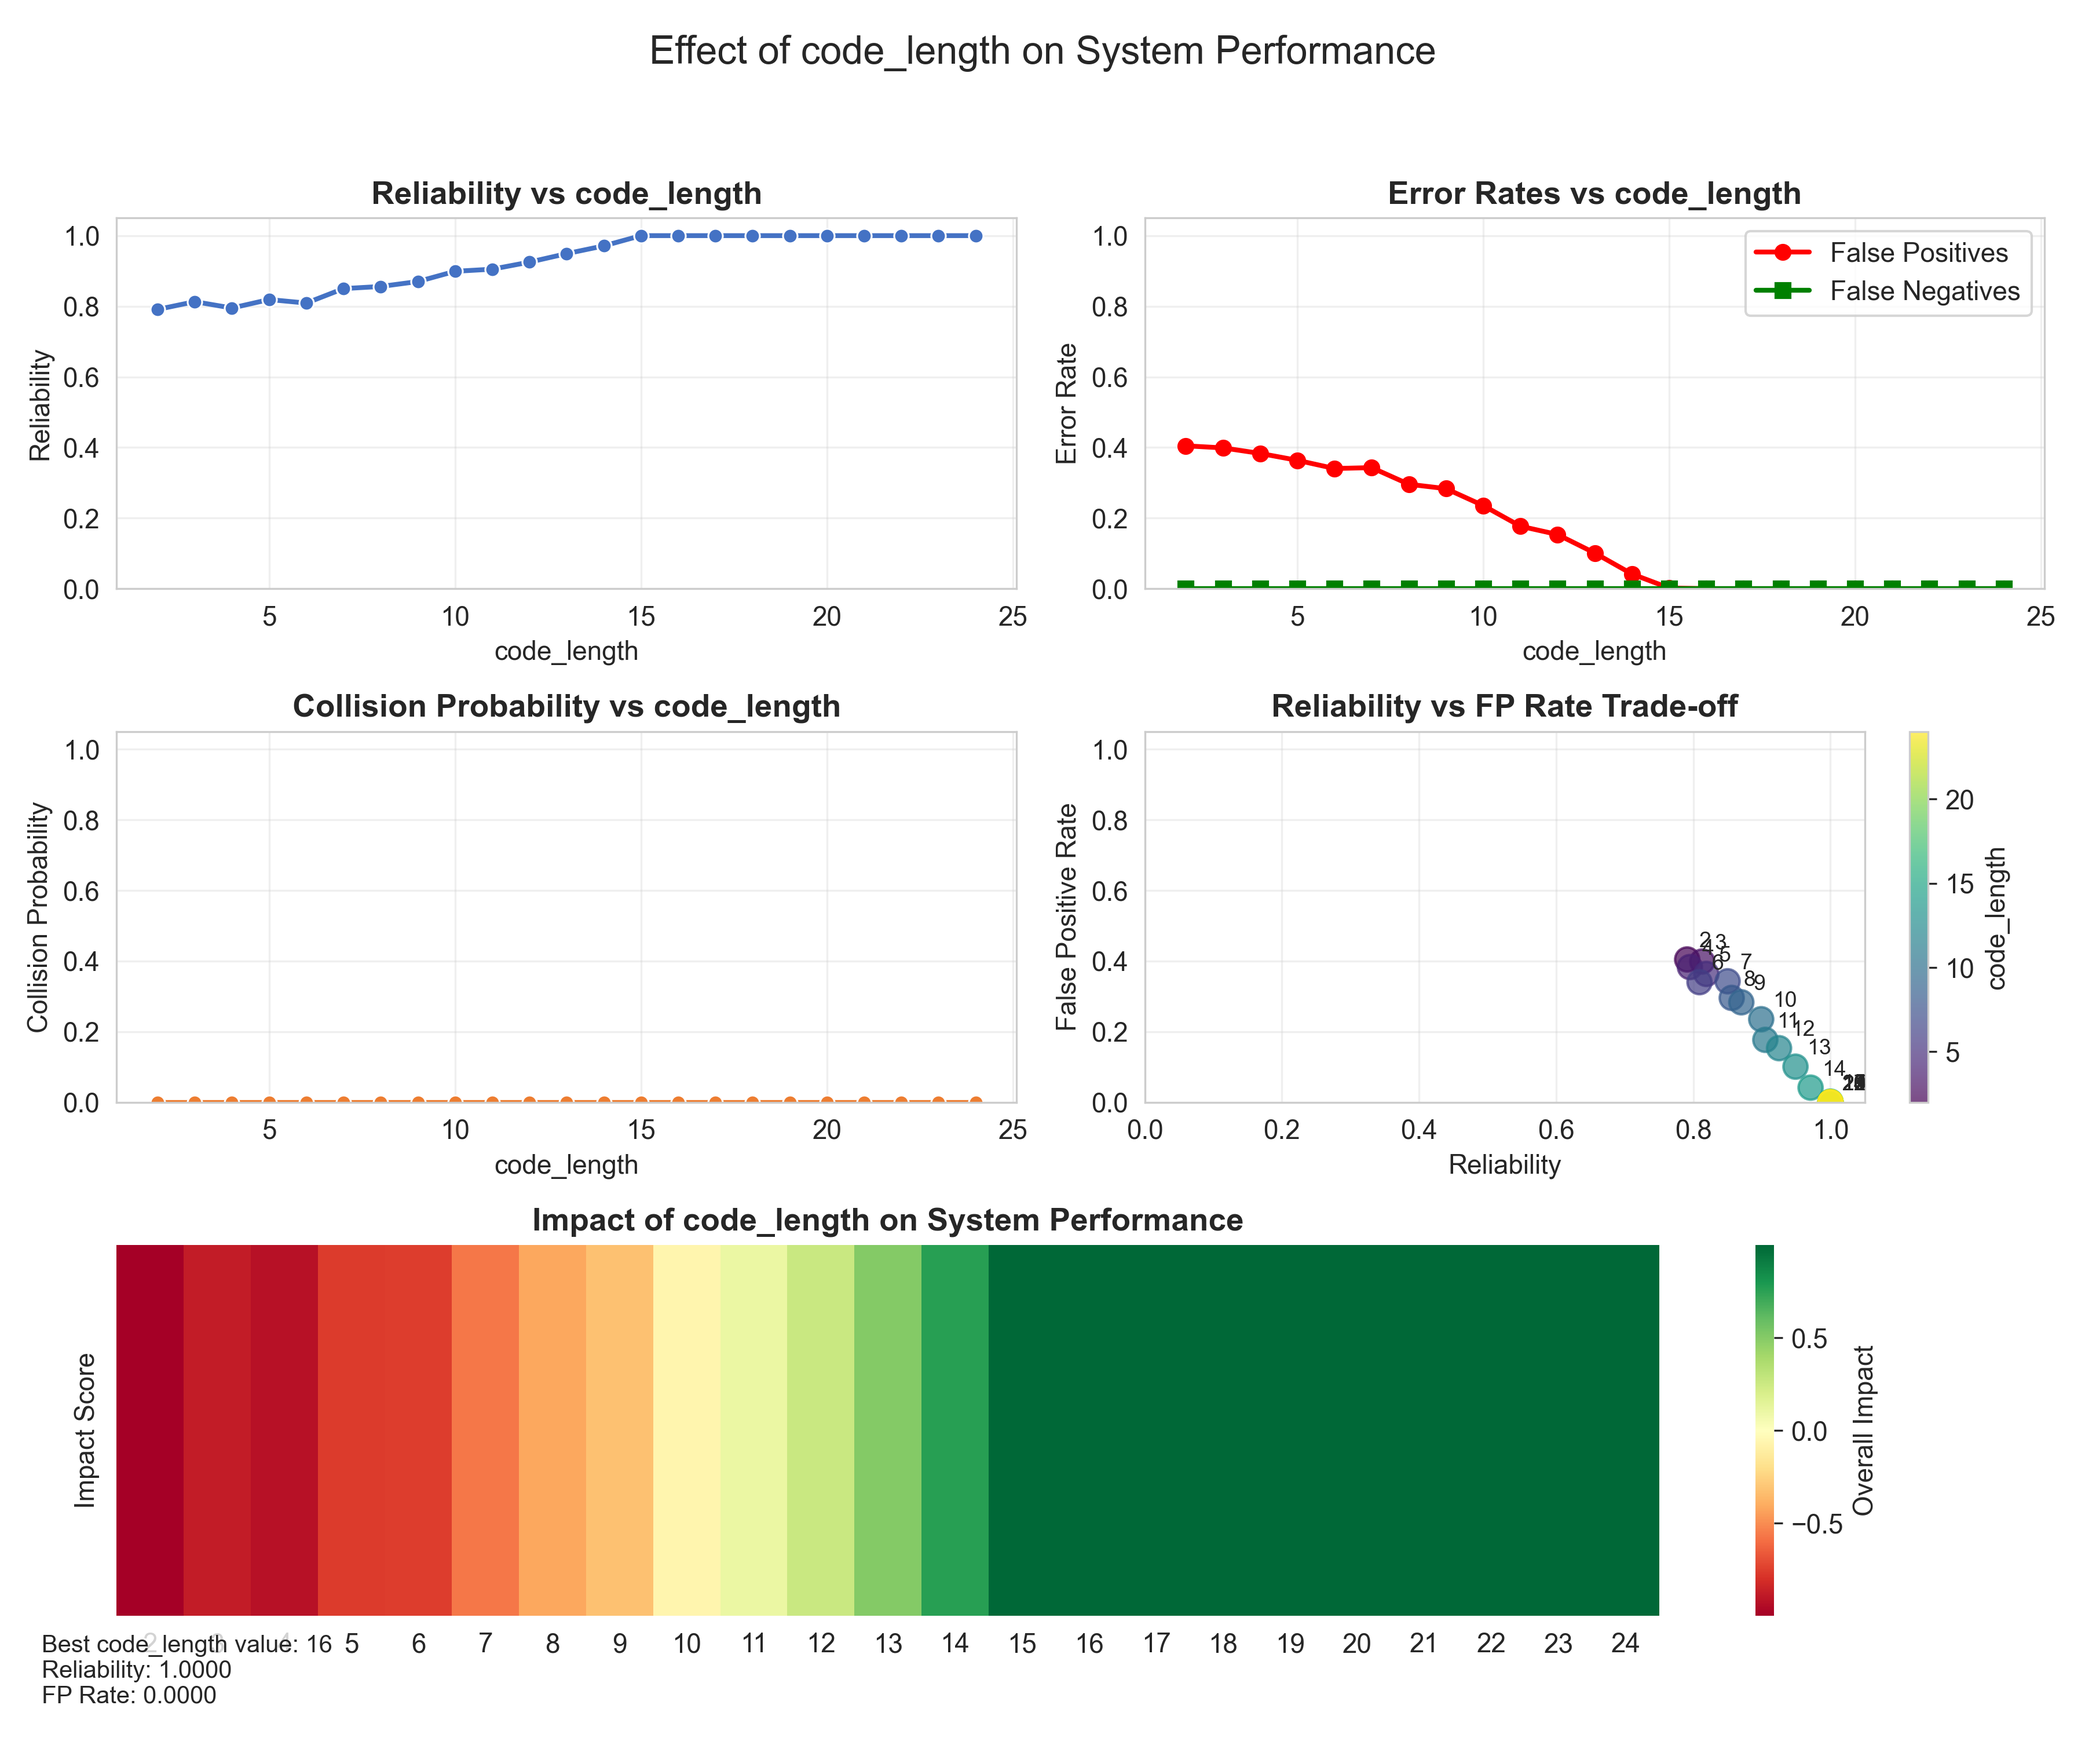
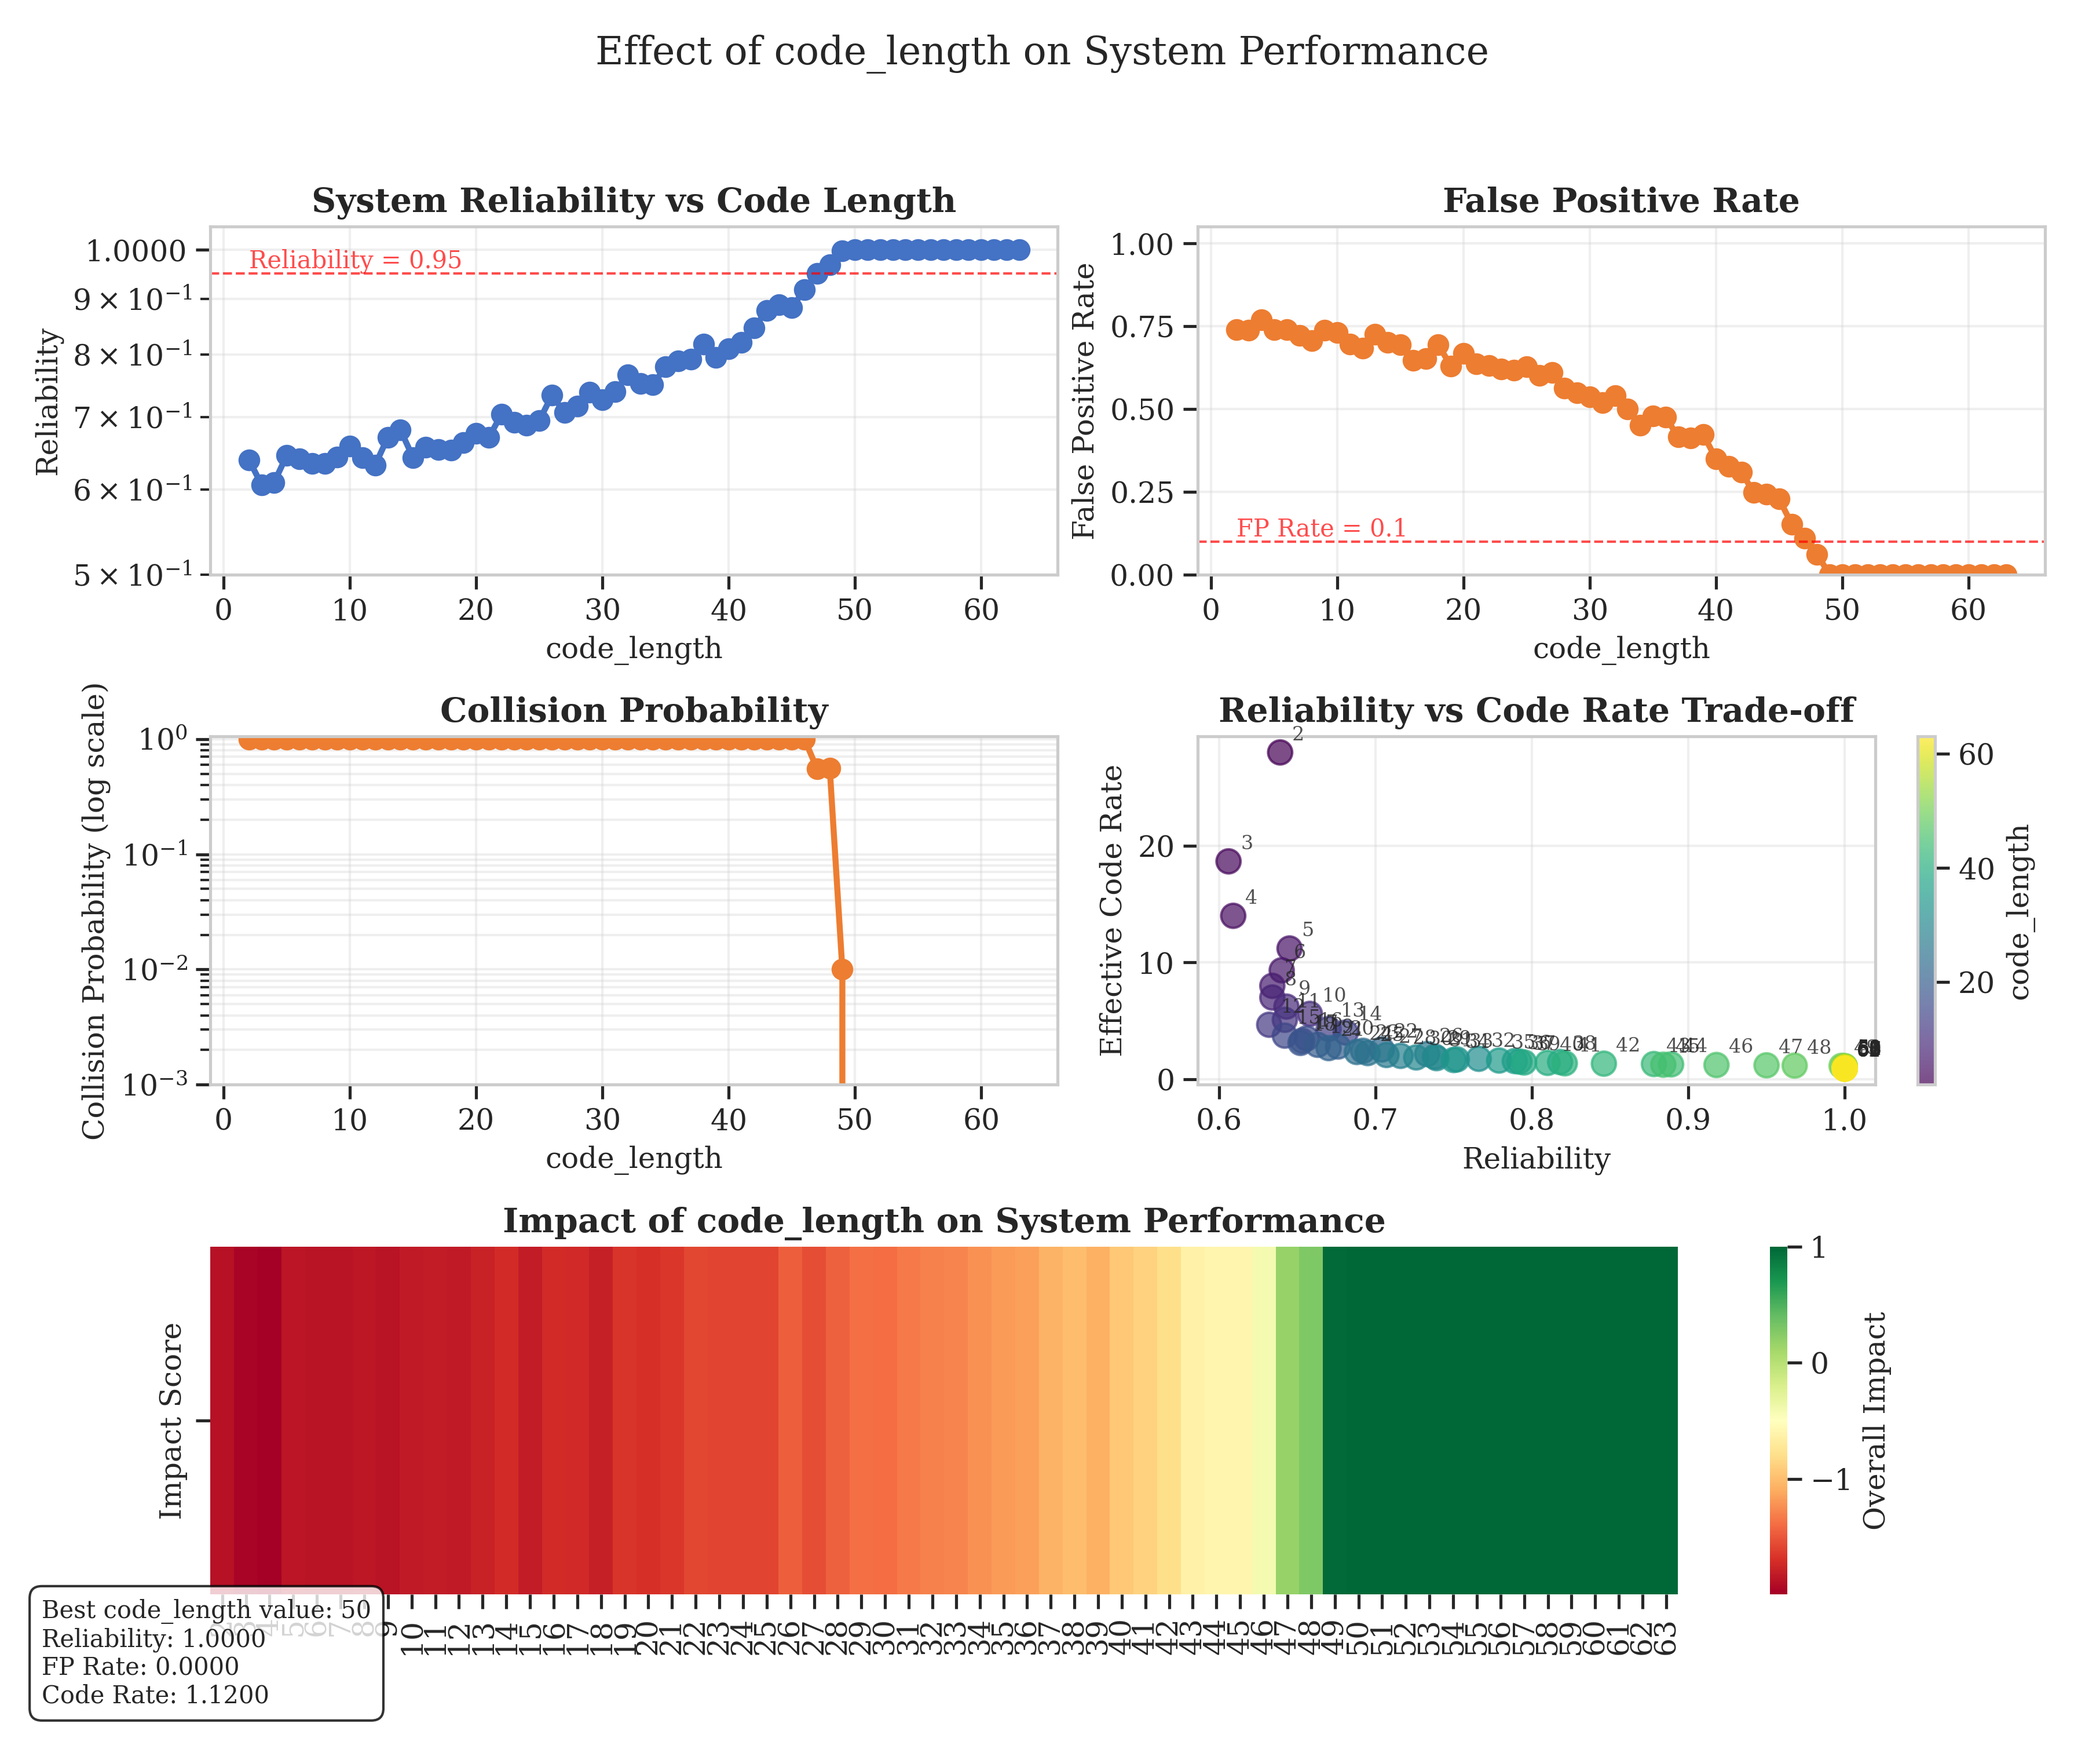
refactor: update README and replace parameter optimization dashboard image with code rate version

diff --git a/README.md b/README.md
@@ -84,12 +84,12 @@ The following images are generated by the example script and provide a visual su
 
 | System Comparison | Parameter Effects (nsym) | Parameter Effects (code_length) | Parameter Optimization Dashboard |
 |-------------------|-------------------------|----------------------------------|----------------------------------|
-| ![System Comparison](output/system_comparison.png) | ![Parameter Effects nsym](output/parameter_effects_nsym.png) | ![Parameter Effects code_length](output/parameter_effects_code_length.png) | ![Parameter Optimization Dashboard](output/parameter_optimization_dashboard.png) |
+| ![System Comparison](output/system_comparison.png) | ![Parameter Effects nsym](output/parameter_effects_nsym.png) | ![Parameter Effects code_length](output/parameter_effects_code_length.png) | ![Parameter Optimization Dashboard](output/parameter_optimization_coderate.png) |
 
 - **system_comparison.png**: Compares reliability, false positive rate, collision probability, and code rate for different system configurations.
 - **parameter_effects_nsym.png**: Shows how the number of ECC symbols (nsym) affects reliability and error rates.
 - **parameter_effects_code_length.png**: Shows how the code length parameter affects system performance.
-- **parameter_optimization_dashboard.png**: Heatmaps and 3D plots for optimal parameter selection.
+- **parameter_optimization_coderate.png**: Heatmaps and 3D plots for optimal parameter selection.
 
 ## Components
 
